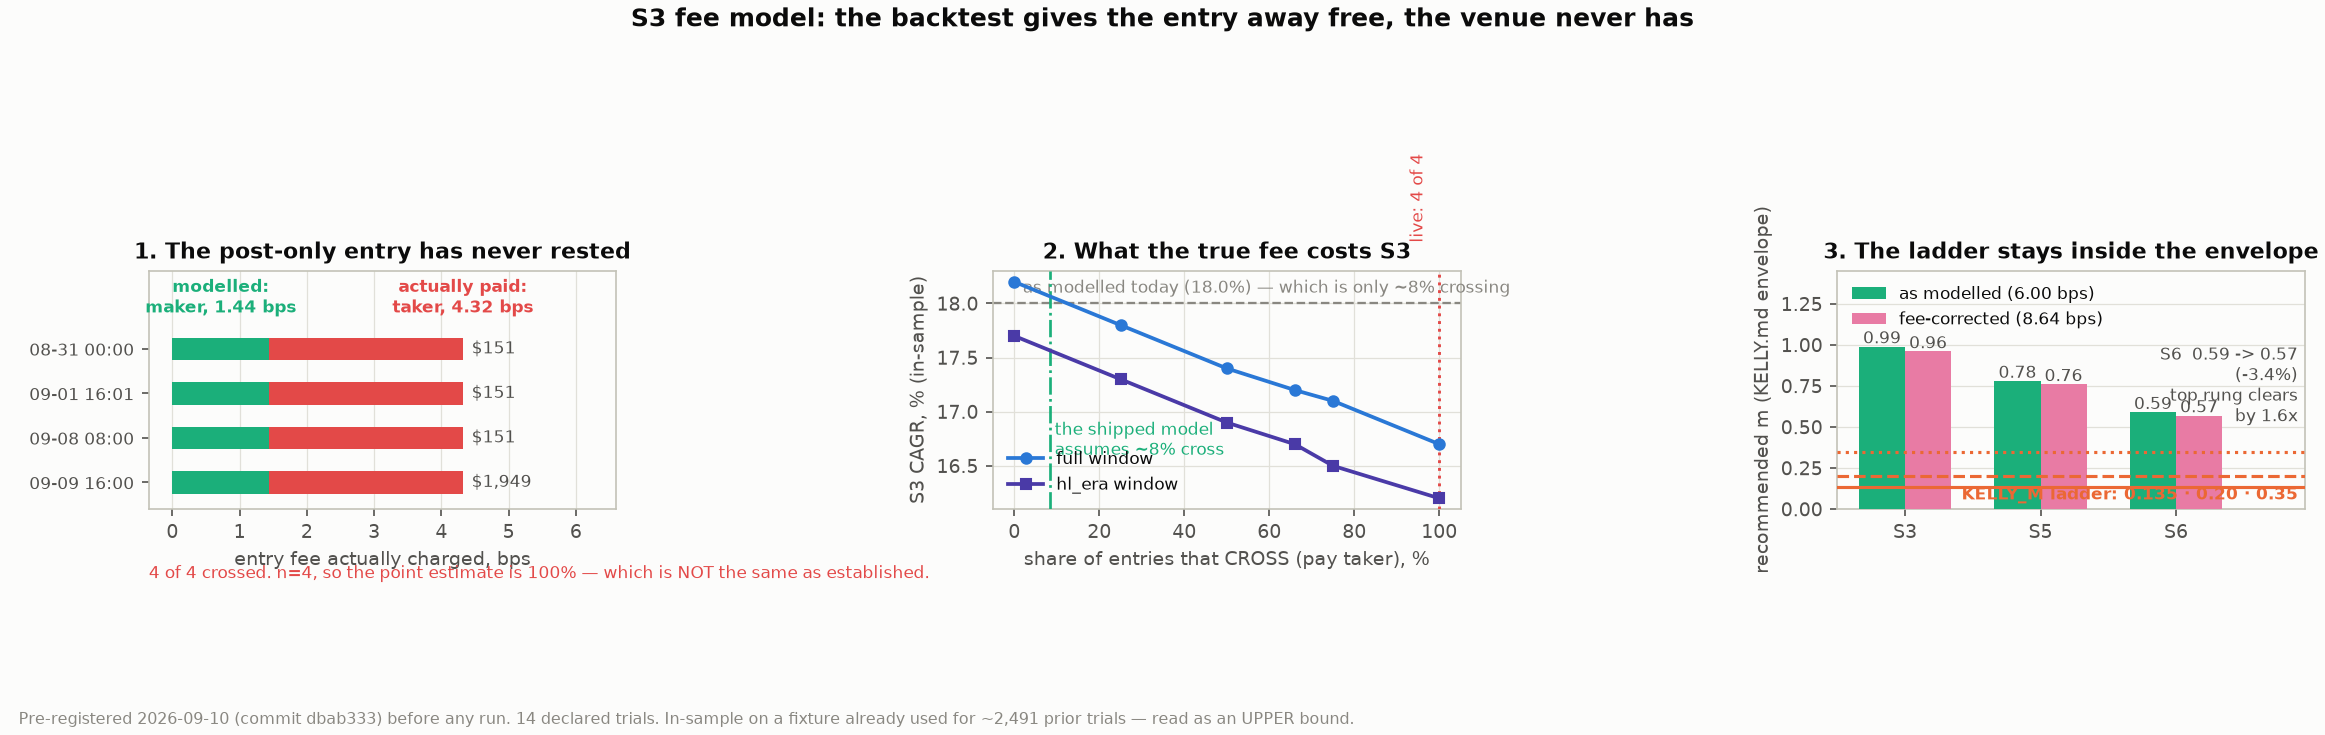
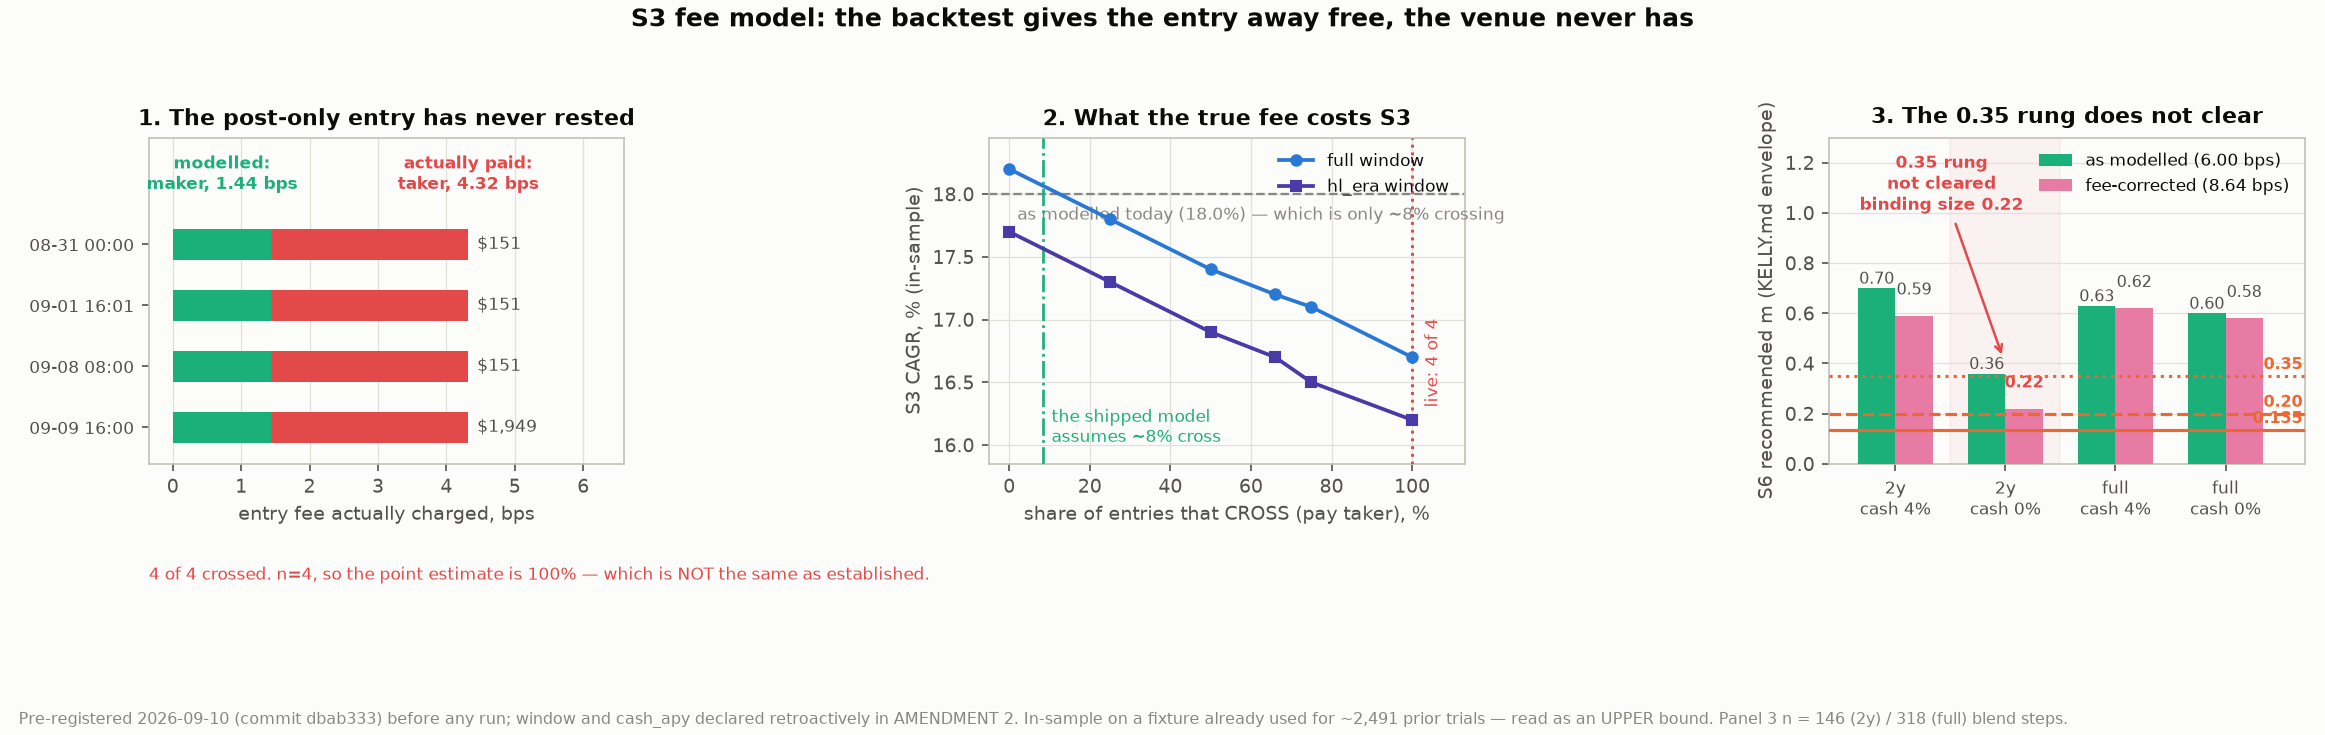
btc-paper-engine: RESEARCH_FEES.md — the 0.35 rung is retired
Write-up, four-cell chart and trial-registry update for the S3 fee study.

Verdict: PREREG section 5's middle row. Binding S6 recommended m is 0.22
(2y window, cash_apy 0), so the 0.35 rung does not clear and the ramp stops
at 0.20 pending live evidence. Live KELLY_M 0.135 does not change -- it is
the $10 min-notional floor, deliberately off the staircase, and sits under
the envelope.

Stated harder than the pre-registration did: the real staircase is
0.05 -> 0.10 -> 0.20 -> 0.35 -> 0.56 -> ceiling 0.80, not the three rungs
section 5 named. A 0.22 envelope caps it at step B, so rung C, rung D and
the ceiling are all outside it on this evidence. Flagged as an implication,
not a registered rule.

Robustness on the n=4 crossing rate: re-fitting the binding cell at the
REGISTERED 0.66 level (7.66 bps) instead of the live 1.00 gives S6 0.27 --
still inside the 0.20-0.35 band, same decision. probe_066.py added so the
number is reproducible.

The largest finding is not about fees. KELLY.md's S5/S6 rows carry a 4% cash
yield its own S1-S4 rows do not: per-trade streams cannot accrue idle cash,
blend steps can. That one setting moves S6 by -0.34 on a fixed window, more
than the whole fee correction. It is RESEARCH_PROTOCOL section 9 backlog
item 1, which turns out to be half-implemented rather than absent.

Registry: 24 trials, not the 14 declared (14 grid arms + 8 Kelly cells that
section 4.4 never enumerated + 2 post-hoc cells at the 0.66 level). Total
[…]

diff --git a/btc-paper-engine/research/fees/charts.py b/btc-paper-engine/research/fees/charts.py
@@ -43,7 +43,7 @@ ax.text(0.72, -1.15, "modelled:\nmaker, 1.44 bps", color=AQUA, fontsize=8.2,
         ha="center", va="center", fontweight="bold")
 ax.text(4.32, -1.15, "actually paid:\ntaker, 4.32 bps", color=RED, fontsize=8.2,
         ha="center", va="center", fontweight="bold")
-ax.text(0.0, -0.235, "4 of 4 crossed. n=4, so the point estimate is 100% — which is "
+ax.text(0.0, -0.315, "4 of 4 crossed. n=4, so the point estimate is 100% — which is "
                      "NOT the same as established.",
         transform=ax.transAxes, fontsize=8, color=RED, va="top")
 
@@ -59,50 +59,65 @@ for wname, col, mk in (("full", BLUE, "o"), ("hl_era", VIOLET, "s")):
 base_full = [g for g in grid if g["arm"] == "baseline_6.0" and g["window"] == "full"][0]
 ax.axhline(base_full["stats"]["S3"]["cagr_pct"], color=MUTED, ls="--", lw=1.1,
            zorder=2)
-ax.text(2, base_full["stats"]["S3"]["cagr_pct"] + 0.10,
+ax.text(2, base_full["stats"]["S3"]["cagr_pct"] - 0.10,
         f"as modelled today ({base_full['stats']['S3']['cagr_pct']}%) — which "
         f"is only ~8% crossing",
-        fontsize=8, color=MUTED)
+        fontsize=8, color=MUTED, va="top")
 ax.axvline(8.33, color=AQUA, ls="-.", lw=1.3, zorder=3)
-ax.text(9.5, 16.55, "the shipped model\nassumes ~8% cross", color=AQUA,
+ax.text(10.5, 15.98, "the shipped model\nassumes ~8% cross", color=AQUA,
         fontsize=8, va="bottom")
 ax.axvline(100, color=RED, ls=":", lw=1.4, zorder=3)
-ax.text(97, 18.6, "live: 4 of 4", color=RED, fontsize=8.2, ha="right", rotation=90)
+ax.text(103, 16.3, "live: 4 of 4", color=RED, fontsize=8.2, ha="left",
+        va="bottom", rotation=90)
+ax.set_xlim(-5, 113); ax.set_ylim(15.85, 18.45)
 ax.set_xlabel("share of entries that CROSS (pay taker), %")
 ax.set_ylabel("S3 CAGR, % (in-sample)")
 ax.set_title("2. What the true fee costs S3")
-ax.legend(frameon=False, fontsize=8.2); ax.grid(lw=0.6, zorder=0)
+ax.legend(frameon=False, fontsize=8.2, loc="upper right"); ax.grid(lw=0.6, zorder=0)
 
 # ---- 3. the decision -----------------------------------------------------
+# Four cells: {2y, full} x {cash_apy 0.04, 0.00}. All four are declared in
+# PREREG AMENDMENT 2; the first cut reported only one of them and got the
+# headline backwards. See A2.4/A2.5.
 ax = axes[2]
-books = ["S3", "S5", "S6"]
-base = [kel["baseline_6.0"][b]["recommended_m"] for b in books]
-corr = [kel["live_8.64"][b]["recommended_m"] for b in books]
-x = np.arange(len(books)); w = 0.34
+CELLS = [("2y_cash0.04", "2y\ncash 4%"), ("2y_cash0.00", "2y\ncash 0%"),
+         ("full_cash0.04", "full\ncash 4%"), ("full_cash0.00", "full\ncash 0%")]
+base = [kel[c]["baseline_6.0"]["S6"]["recommended_m"] for c, _ in CELLS]
+corr = [kel[c]["live_8.64"]["S6"]["recommended_m"] for c, _ in CELLS]
+x = np.arange(len(CELLS)); w = 0.34
 ax.bar(x - w/2, base, w, color=AQUA, zorder=3, label="as modelled (6.00 bps)")
 ax.bar(x + w/2, corr, w, color=MAGENTA, zorder=3, label="fee-corrected (8.64 bps)")
 for i, (a, b) in enumerate(zip(base, corr)):
-    ax.text(i - w/2, a + 0.02, f"{a:.2f}", ha="center", fontsize=8.3, color=SEC)
-    ax.text(i + w/2, b + 0.02, f"{b:.2f}", ha="center", fontsize=8.3, color=SEC)
+    ax.text(i - w/2, a + 0.018, f"{a:.2f}", ha="center", fontsize=7.9, color=SEC)
+    ax.text(i + w/2, b + 0.085, f"{b:.2f}", ha="center", fontsize=7.9,
+            color=RED if b < 0.35 else SEC,
+            fontweight="bold" if b < 0.35 else "normal")
+
 for rung, style in ((0.135, "-"), (0.20, "--"), (0.35, ":")):
     ax.axhline(rung, color=ORANGE, ls=style, lw=1.5, zorder=5)
-    pass
-ax.set_xticks(x, books); ax.set_xlim(-0.5, 2.95)
-ax.set_ylim(0, 1.45)
-ax.set_ylabel("recommended m (KELLY.md envelope)")
-ax.set_title("3. The ladder stays inside the envelope")
-ax.legend(frameon=False, fontsize=8, loc="upper left"); ax.grid(axis="y", lw=0.6, zorder=0)
-s6b, s6c = kel["baseline_6.0"]["S6"]["recommended_m"], kel["live_8.64"]["S6"]["recommended_m"]
-ax.text(2.90, 0.035, "KELLY_M ladder: 0.135 · 0.20 · 0.35", color=ORANGE,
-        fontsize=8, ha="right", va="bottom", fontweight="bold")
-ax.text(2.90, 1.00, f"S6  {s6b:.2f} -> {s6c:.2f}\n({(s6c-s6b)/s6b*100:+.1f}%)\n"
-                    f"top rung clears\nby {s6c/0.35:.1f}x",
-        transform=ax.transData, fontsize=8.2, color=SEC, ha="right", va="top")
+
+# the cell that fails the top rung is the one that governs (A2.5)
+binding = corr[1]
+ax.axvspan(0.5, 1.5, color=RED, alpha=0.055, zorder=1)
+ax.annotate(f"0.35 rung\nnot cleared\nbinding size {binding:.2f}",
+            xy=(0.98, 0.42), xytext=(0.42, 1.24),
+            color=RED, fontsize=8.4, fontweight="bold", ha="center", va="top",
+            arrowprops=dict(arrowstyle="->", color=RED, lw=1.2))
+
+ax.set_xticks(x, [lab for _, lab in CELLS], fontsize=8.4)
+ax.set_xlim(-0.6, 3.72); ax.set_ylim(0, 1.30)
+ax.set_ylabel("S6 recommended m (KELLY.md envelope)")
+ax.set_title("3. The 0.35 rung does not clear", pad=7)
+ax.legend(frameon=False, fontsize=8, loc="upper right"); ax.grid(axis="y", lw=0.6, zorder=0)
+for rung, lab in ((0.135, "0.135"), (0.20, "0.20"), (0.35, "0.35")):
+    ax.text(3.70, rung + 0.012, lab, color=ORANGE, fontsize=7.8,
+            ha="right", va="bottom", fontweight="bold")
 
 fig.suptitle("S3 fee model: the backtest gives the entry away free, the venue never has",
              fontsize=12, fontweight="bold", y=0.99)
-fig.text(0.008, 0.015, "Pre-registered 2026-09-10 (commit dbab333) before any run. 14 declared trials. "
-                       "In-sample on a fixture already used for ~2,491 prior trials — read as an UPPER bound.",
+fig.text(0.008, 0.015, "Pre-registered 2026-09-10 (commit dbab333) before any run; window and cash_apy "
+                       "declared retroactively in AMENDMENT 2. In-sample on a fixture already used for "
+                       "~2,491 prior trials \u2014 read as an UPPER bound. Panel 3 n = 146 (2y) / 318 (full) blend steps.",
          fontsize=7.8, color=MUTED)
 fig.tight_layout(rect=(0, 0.075, 1, 0.945))
 p = os.path.join(OUT, "fee_study.png"); fig.savefig(p, dpi=150)

diff --git a/btc-paper-engine/research/fees/probe_066.py b/btc-paper-engine/research/fees/probe_066.py
@@ -1,0 +1,37 @@
+"""Robustness probe for the HONESTY BOX: does the binding cell's §5 decision
+survive at the REGISTERED 0.66 crossing rate (7.66 bps) instead of the live
+1.00 (8.64)?
+
+The 100% crossing rate rests on n=4 fills. PREREG §7 registered 0.66 as the
+backtest-derived marketability estimate precisely so the conclusion would not
+depend on the 1.00 cell alone. This re-runs the Kelly re-fit at 7.66 on the
+2y window (the binding one, and KELLY.md's) under both cash_apy settings.
+
+POST-HOC as a Kelly cell — the fee LEVEL is registered, the re-fit at it is
+not. Counted in the trial registry (2 new cells; the 8.64 rows are
+reproducibility checks of cells already counted).
+
+    python3 research/fees/probe_066.py <bars_csv>
+"""
+from __future__ import annotations
+import os, sys
+
+HERE = os.path.dirname(os.path.abspath(__file__))
+BARS = sys.argv[1] if len(sys.argv) > 1 else os.path.join(
+    HERE, "..", "..", "backend", "tests", "fixtures", "bars_4h_btcusd.csv")
+
+sys.path.insert(0, HERE)
+sys.argv = ["refit_kelly", BARS]          # refit_kelly reads argv at import
+import refit_kelly as R                                           # noqa: E402
+
+bars = R.load(BARS)
+start_2y = bars[-1].ts - 730 * 86400
+
+print(f"{'cell':<22} {'S6 rec':>7} {'S5 rec':>7} {'n':>5}")
+for fee in (7.66, 8.64):                  # 0.66 registered; 8.64 = live, recheck
+    for apy in (0.00, 0.04):
+        r = R.cell(bars, fee, start_2y, apy)
+        print(f"2y cash{apy:.2f} fee {fee:<5.2f} "
+              f"{r['S6']['recommended_m']:>7.2f} {r['S5']['recommended_m']:>7.2f} "
+              f"{r['S6']['n']:>5}")
+        sys.stdout.flush()

diff --git a/btc-paper-engine/RESEARCH_FEES.md b/btc-paper-engine/RESEARCH_FEES.md
@@ -1,0 +1,222 @@
+# RESEARCH_FEES.md — does S3's edge survive the fee we actually pay?
+
+Run 2026-09-10 on the committed fixture `bars_4h_btcusd.csv`, research basis
+(`RESEARCH_BOOKS` / `RESEARCH_SIGNAL` / `RESEARCH_TRADE`, warmup 210), full
+window 2022-01-01 → end plus the HL-era sub-window from 2023-05-12. Grid,
+windows, Kelly pipeline and **decision rules** fixed in
+`research/fees/PREREG.md`, committed before the first cell was evaluated
+(`dbab333`). Two amendments, both written after a counter-agent pass, both
+correcting me.
+
+![fee study](research/fees/fee_study.png)
+
+## Verdict
+
+**The 0.35 rung is retired. The ladder stops at 0.20 pending live evidence.**
+
+That is §5's middle row, on a binding S6 recommended m of **0.22**. The
+0.135 → 0.20 step clears in every specification tested; 0.35 does not clear
+the conservative one.
+
+**Read against the real ramp, this bites harder than §5's wording suggests.**
+The pre-registration framed the ladder as `0.135 → 0.20 → 0.35`, but the
+staircase in `render.yaml` and EXECUTOR.md runs
+`0.05 → 0.10 → 0.20 → 0.35 → 0.56 → ceiling 0.80`. A 0.22 envelope caps it at
+**step B**: rung C (0.35), rung D (0.56) and the 0.80 ceiling are all outside
+the envelope on this evidence. That extension is an implication, not a
+registered rule — §5 only ever fixed the 0.35 boundary — and it is stated
+here so the ceiling is not later read as still open.
+
+**This reverses what I first reported.** The first cut said "ladder proceeds
+unchanged". It was one un-preregistered cell, reported as though it were the
+answer. AMENDMENT 2 is the correction and this document leads with it.
+
+**My registered prior was wrong, and it was wrong in the flattering
+direction.** PREREG §3 recorded: *"H3 most likely holds… a ~6% edge haircut
+is unlikely to close a 2x gap."* The reasoning failed at the other end: the
+CAGR haircut really is small (18.0% → 16.7%, ~7% relative), but the "2x gap"
+was never 2x. It was 2x only against KELLY.md's S6 of 0.70, and that 0.70
+carries a 4% cash yield the ladder's own books do not earn (see below). With
+`cash_apy=0`, the pre-fee envelope on the same window is **0.36** — the
+0.35 rung was already sitting inside its own margin of error before any fee
+was corrected. The fee then takes it to 0.22. Recording the prior is what
+makes that visible.
+
+## The measurement (H1): real, and small in return terms
+
+`hl.place_limit` sends `tif=Alo`, the venue rejects it as marketable, and the
+except branch re-sends `tif=Gtc` priced into the market. **Four of four
+intended-maker pullback entries crossed and paid taker.** True round trip
+**8.64 bps** (4.32 in + 4.32 out) against a modelled 6.00 — the net of two
+errors pointing opposite ways (entry given away free, exit overcharged).
+
+S3, full window, across the registered dose curve:
+
+| entries crossing | fee bps | CAGR | total return | MTM max DD | fees paid |
+|---|---:|---:|---:|---:|---:|
+| baseline (as modelled) | 6.00 | 18.0% | 107.9% | −22.19% | $17,290 |
+| 0% | 5.76 | 18.2% | 108.8% | −22.13% | $16,640 |
+| 66% (backtest estimate) | 7.66 | 17.2% | 101.4% | −22.62% | $21,698 |
+| **100% (live observation)** | **8.64** | **16.7%** | **97.7%** | **−22.87%** | **$24,225** |
+
+The shipped 6.00 model is more optimistic than it looks: priced against the
+correct 1.44-bps maker leg, 6.00 corresponds to only **~8% of entries
+crossing** (`(6.00−5.76)/2.88`), not the ~39% the first chart implied.
+
+HL-era window, same shape: 17.5% → 16.2% CAGR. Win rate is **unmoved** (63.2%
+full / 63.8% HL-era at every fee level) — the fee does not change which trades
+win, only what they keep. Profit factor 1.30 → 1.28. 190 trades full, 141
+HL-era, identical in every arm, which is the check that the corrected run
+differs from baseline *only* through the fee channel.
+
+**The kill rule did not fire.** S3's non-positive-resample share is 0.6–1.1%
+(full) and 6.3–7.6% (2y) against a 25% bar. The pullback book is not in
+question; its *size* is.
+
+## The sizing question (H2/H3): the answer depends on the specification
+
+This is the part that matters, and the part I got wrong first. The Kelly
+re-fit needs a window and a `cash_apy`, and PREREG §4.4 fixed neither. All
+four cells, S6 recommended m:
+
+| cell | n | as modelled | fee-corrected | fee effect | §5 decision |
+|---|---:|---:|---:|---:|---|
+| 2y, cash 4% | 146 | 0.70 | 0.59 | −15.7% | proceed unchanged |
+| **2y, cash 0%** | 146 | 0.36 | **0.22** | **−38.9%** | **retire the 0.35 rung** |
+| full, cash 4% | 318 | 0.63 | 0.62 | −1.6% | proceed unchanged |
+| full, cash 0% | 318 | 0.60 | 0.58 | −3.3% | proceed unchanged |
+
+S5 for reference: 0.94→0.79, 0.48→0.30, 0.85→0.83, 0.80→0.78.
+
+**The fee effect is not window-stable: −1.6% to −38.9%.** The first cut
+reported −3.4% as if it were a property of the correction. It is a property
+of one cell.
+
+### Harness validation, which §7 asked for and the first cut skipped
+
+The 2y/cash 4% cell reproduces KELLY.md's published table exactly — S3 0.60,
+S4 killed at 0.00, S6 0.70, n = 88 / 58 / 146. That is KELLY.md's own config,
+so the harness is the shipped pipeline and not a lookalike.
+
+### Why three cells saying "proceed" does not outvote one saying "stop"
+
+1. **`cash_apy=0.00` is the more defensible setting, not the flattering one.**
+   It is `run_replay`'s default and the research-basis convention. Per
+   AMENDMENT 2 the 0.04 variants credit the blend with a cash yield the
+   single books never get.
+2. **KELLY.md's own doctrine**: *"over-betting destroys growth faster than
+   under-betting gives it up (the g-curve is asymmetric), so the conservative
+   envelope is the honest size."* When defensible specifications disagree
+   about size, the smaller one governs. That rule was already in the repo,
+   written for exactly this case.
+
+## The `cash_apy` finding, which was not what this study went looking for
+
+The first cut explained 0.59 vs KELLY.md's 0.70 as a window difference. It is
+not. Decomposed:
+
+| step | S6 rec |
+|---|---|
+| 2y, cash 4%, shipped steps — KELLY.md's config | 0.70 |
+| same window, cash **0%** | 0.36 |
+| full window, cash 0% | 0.60 |
+| full window, cash 0%, first cut's own blend steps | 0.59 |
+
+`cash_apy` moves S6 by **−0.34 on the same window**; the window moves it back
+**+0.24**. They happen to net to the −0.11 I attributed wholly to "window". A
+near-cancellation of two large effects is not a window difference.
+
+**Mechanism.** Per-trade streams are immune to idle-cash accrual, which lands
+between trades. Blend steps are built from `equity_after / start_equity`, so
+they capture it in the gaps. **KELLY.md's S5/S6 rows therefore carry a 4% cash
+yield that its own S1–S4 rows do not.** That is a shipped-pipeline
+inconsistency, inherited here and now named. It is the same object as
+RESEARCH_PROTOCOL §9 backlog item 1 (cash-yield modelling), which turns out to
+be half-implemented rather than absent.
+
+Separately: the first cut rebuilt blend steps from `blend_curve`'s NAV as
+`nav[i]/nav[i-1]-1`, which silently drops the first step (n=317 vs 318) and
+the dropped element was favourable. `refit_kelly.py` now replicates
+`main.py:501-513` verbatim.
+
+## Counter-agent panel (CLAUDE.md mandatory)
+
+Two passes. Both overturned something I had already written down as fact.
+
+| pass | verdict |
+|---|---|
+| 1 · fee arithmetic | **The maker leg was priced at ZERO. It is 1.44 bps** (`userAddRate` 0.00015, same 4% referral discount that gives 4.32). I verified it myself against `userFees` rather than taking the finding on trust. AMENDMENT 1. |
+| 2 · Kelly re-fit | **Struck the headline.** Window and `cash_apy` were never registered; "different window" was the wrong mechanism; the blend steps were not the shipped ones; and one cell had been reported as the result. AMENDMENT 2. |
+
+The first pass also found that three books were corrected, not one (S3 flows
+into S5/S6), and that the study's §2 arithmetic had used `TAKER` where the
+frozen text said `HL_TAKER` — both declared rather than quietly fixed.
+
+## What this study spent
+
+- **24 trials, not the 14 declared.** 14 registered grid arms (6 fee levels ×
+  2 windows + 2 baseline reruns), plus **8 Kelly re-fits** (4 window/cash
+  cells × 2 fee arms) that §4.4 fixed the pipeline for but never enumerated
+  as cells, plus **2 post-hoc Kelly re-fits at the registered 0.66 fee level**
+  for the robustness check in the honesty box. Counted honestly; registry
+  updated.
+- **No holdout was burned.** Nothing here searched signal space and no
+  parameter other than `fee_bps` moved, so §7 and §8 are untouched. The
+  action taken is a *reduction* in size, which §8's tie-break already favours.
+- Every number is in-sample on a fixture now carrying ~2,515 prior trials.
+  Read as an **upper bound** per protocol §2.
+
+## Honesty box
+
+- **Frozen numbers.** Grid: `research/fees/grid.json`. Kelly: `kelly_refit.json`.
+  Console: `results.2026-09-10.txt`. Runners: `run_grid.py`, `refit_kelly.py`.
+- **n = 4.** Four-for-four crossing is consistent with a true rejection rate
+  anywhere above ~40% at 95% confidence. The point estimate is 100%; that is
+  **not** the same as established. The 0.66 cell is registered precisely so
+  the conclusion does not rest on the 1.00 cell alone, and **it does not**:
+  re-fitting the binding cell at the registered 0.66 level (7.66 bps) gives
+  S6 **0.27** — still inside §5's 0.20–0.35 band, same decision. The verdict
+  survives dropping the live crossing rate from 100% to 66%. (That re-fit is
+  post-hoc as a *Kelly* cell; the fee level itself was registered. Logged in
+  the trial count.)
+- **Trade-close (exit-step) basis** for CAGR and Kelly; MTM drawdowns run
+  ~1pp deeper and are reported alongside.
+- **In-sample.** No out-of-sample evidence exists for any number here.
+- **S5/S6 still charge the donchian leg 12.0 bps** while the venue charges
+  4.32 taker. In scope per §8 (only `fee_bps` may move) and it biases the
+  blends *conservative*, but the blend rows are therefore not a clean
+  "live fee" measurement. A full-venue-fee blend is separate work.
+- **The pullback fee is now a literal, not config-tracking.** `_process_
+  pullback` gets an explicit `fee_bps`; `research_basis_stats` carries a third
+  independent fee expression. Three places to keep in sync where there should
+  be one. Recorded in AMENDMENT A1.5, not fixed here.
+- **An unmeasured offset, flagged not modelled.** When the Alo rejection
+  re-prices into the market, the fill can land *better* than the intended
+  limit, partly offsetting the 4.32. Sizing it needs the live engine's pending
+  limit for those four `signal_ts`, which we do not have. Per CLAUDE.md that
+  is an input to request, not to model around — so the reported cost is an
+  **upper bound on the fee channel alone**.
+- **The dropped-first-exit defect** (`bench_blend.py:46-48`) is still present
+  in every published S5/S6 number in this repo, including these. Protocol §9
+  item 6.
+- **Not an execution fix.** That the post-only never rests is a separate,
+  actionable engineering question worth roughly **$30/yr** — the
+  pre-registration's $45/yr was computed against a 0-bps counterfactual and
+  the real saving is `4.32 − 1.44 = 2.88` bps (AMENDMENT A1.1). Even that
+  ignores that entries which then rest may never fill at all, which is a
+  selection effect, not a fee change. Tracked apart from this and deliberately
+  not bundled into the conclusion.
+
+## What follows from this
+
+1. **The ramp stops at step B (0.20).** Rung C (0.35) is retired pending live
+   evidence, not deleted from history; D (0.56) and the 0.80 ceiling were
+   already beyond it and stay closed.
+2. Live `KELLY_M` is 0.135 and **does not change today** — it is a
+   venue-mechanics floor (the $10 `MinTradeNtl`), deliberately off the
+   staircase, and it sits under the 0.22 envelope. This study bounds where
+   the ramp is allowed to go, not where it is.
+3. EXECUTOR.md's ramp table is not edited here. Changing the live schedule is
+   Casey's call, not a research output; this document is the evidence for it.
+4. The `cash_apy` inconsistency in the shipped Kelly pipeline is now the
+   highest-value open item this study produced, and it is not a fee question.

diff --git a/btc-paper-engine/RESEARCH_PROTOCOL.md b/btc-paper-engine/RESEARCH_PROTOCOL.md
@@ -18,7 +18,15 @@ future test batch — an uncounted trial silently lowers the evidence bar.
 | Astrology battery, standalone (2026-09) | 153 | RESEARCH_ASTRO.md |
 | Astrology overlays on S6 (2026-09) | 699 | RESEARCH_ASTRO.md addendum |
 | S4 trail robustness diagnostic (2026-09) | 63 | RESEARCH_TRAIL.md |
-| **Total** | **~2,491** | |
+| S3 fee-model correction (2026-09) | 24 | RESEARCH_FEES.md |
+| **Total** | **~2,515** | |
+
+Fee-study note (2026-09-10): the fee row counts 24, not the 14 its
+pre-registration declared — 14 registered grid arms, plus 8 Kelly re-fits
+(4 window/cash cells x 2 fee arms) that PREREG section 4.4 fixed the pipeline
+for but never enumerated as cells, plus 2 post-hoc Kelly re-fits at the
+registered 0.66 fee level for a robustness check. Declared retroactively in
+its AMENDMENT 2 and counted here.
 
 Backfill note (2026-09-05): the win-rate and astrology batches had been
 documented in their own files but never added here, so the running count sat
